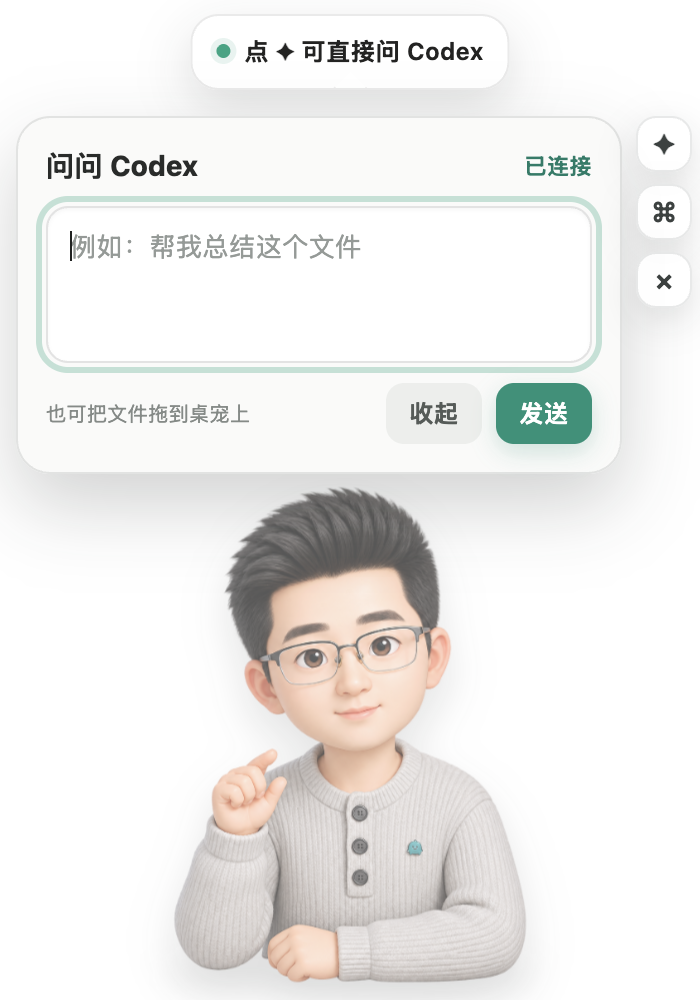
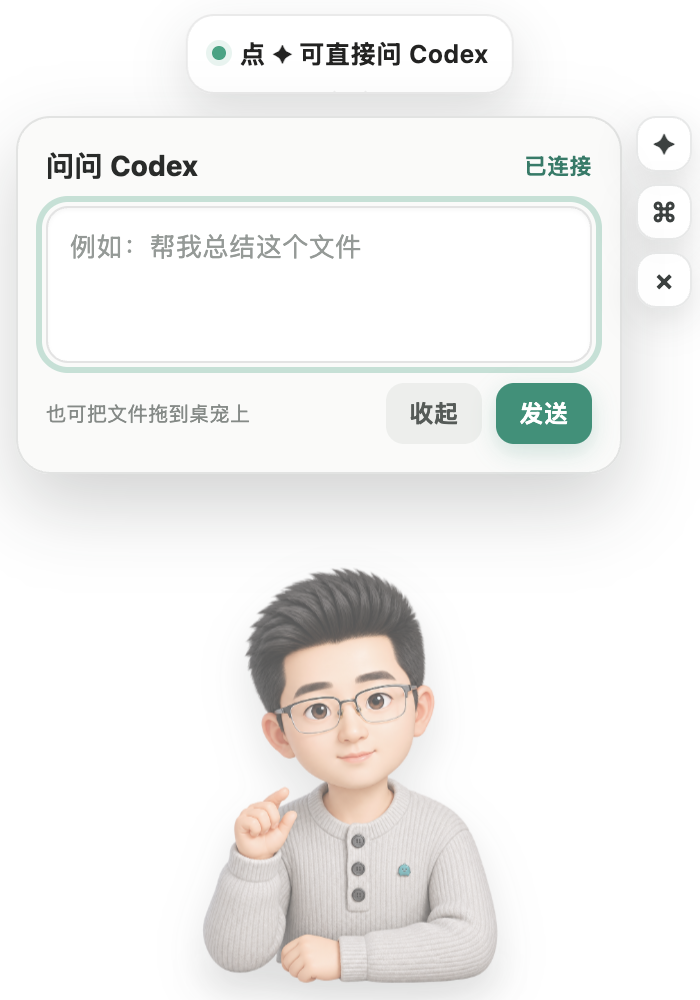
refine: shrink pet and enlarge replies

Changed region(s): [[0.24, 0.465, 0.75, 0.992], [0.3, 0.031, 0.69, 0.093]]

diff --git a/src/styles.css b/src/styles.css
@@ -39,13 +39,14 @@ textarea {
   display: flex;
   align-items: flex-start;
   gap: 7px;
-  max-width: 260px;
+  max-width: 272px;
   min-height: 38px;
-  max-height: 76px;
-  padding: 9px 12px;
-  overflow: hidden;
+  max-height: 112px;
+  padding: 10px 12px;
+  overflow-x: hidden;
+  overflow-y: auto;
   color: #232322;
-  font-size: 12px;
+  font-size: 12.5px;
   font-weight: 650;
   line-height: 1.42;
   letter-spacing: 0.01em;
@@ -325,8 +326,8 @@ textarea {
   z-index: 2;
   left: 50%;
   bottom: 1px;
-  width: 274px;
-  height: 316px;
+  width: 230px;
+  height: 266px;
   cursor: grab;
   pointer-events: auto;
   transform: translateX(-50%);
@@ -345,7 +346,7 @@ textarea {
   left: 50%;
   bottom: 4px;
   display: block;
-  width: 270px;
+  width: 226px;
   height: auto;
   -webkit-user-drag: none;
   filter: drop-shadow(0 11px 11px rgba(30, 32, 31, 0.19));
@@ -389,13 +390,13 @@ textarea {
 }
 
 .spark-one {
-  top: 56px;
-  right: 9px;
+  top: 46px;
+  right: 7px;
   font-size: 20px;
 }
 
 .spark-two {
-  top: 86px;
+  top: 72px;
   right: 2px;
   font-size: 25px;
 }

diff --git a/src/renderer.js b/src/renderer.js
@@ -96,7 +96,7 @@ function handleStatus(status = {}) {
     showBubble('Codex 正在思考…', 0);
   } else if (state === 'completed') {
     setBusy(false);
-    showBubble(status.answer || status.message || 'Codex 已完成', 9000);
+    showBubble(status.answer || status.message || 'Codex 已完成', 12000);
   } else if (state === 'error' || state === 'fallback' || state === 'offline') {
     setBusy(false);
     showBubble(status.message || '暂时无法连接 Codex', 5000);

diff --git a/src/main.js b/src/main.js
@@ -6,7 +6,7 @@ const fs = require('node:fs');
 const path = require('node:path');
 const { CodexBridge } = require('./codex-bridge');
 
-const WINDOW_SIZE = { width: 284, height: 382 };
+const WINDOW_SIZE = { width: 284, height: 344 };
 const EXPANDED_SIZE = { width: 350, height: 500 };
 const STATE_FILENAME = 'window-state.json';
 

diff --git a/RELEASE_NOTES.md b/RELEASE_NOTES.md
@@ -1,19 +1,18 @@
-# Codex Desk Pet v1.1.0
+# Codex Desk Pet v1.1.1
 
-这次桌宠不只是 Codex 快捷方式了。
+这次继续优化桌面占用和回复阅读体验。
 
-## 新功能
+## 更小的桌宠
 
-- 点击 `✦`，无需离开桌面即可直接向 Codex 提问
-- 接入 Codex App Server，显示真实的连接、处理中和完成状态
-- 支持把图片、文档和文件夹拖到桌宠上，交给 Codex 只读分析
-- Codex 完成任务后发送 macOS 系统通知
-- 未安装或未登录 Codex 时，自动复制问题并打开 Codex/网页版
+- 常驻窗口由 `284×382` 缩短为 `284×344`
+- 角色本体由约 270 像素宽缩小到约 226 像素宽
+- 提问卡仍然只在需要时临时展开，发送后自动缩回
 
-## 更轻巧
+## 更大的回复气泡
 
-- 常驻窗口由 `368×492` 缩小为 `284×382`，占屏面积减少约 40%
-- 提问卡只在需要时临时展开，发送后自动缩回
+- 回复气泡最大宽度由 260 像素增加到 272 像素
+- 最大高度由 76 像素增加到 112 像素，可显示更多回答内容
+- 长回答可以在气泡内滚动，完成回复的停留时间由 9 秒延长到 12 秒
 
 ## 安全说明
 

diff --git a/README.md b/README.md
@@ -7,7 +7,8 @@
 ## 功能
 
 - 透明悬浮、始终置顶，可拖到任意位置
-- 紧凑模式约 `284×382`，提问时临时展开，发送后自动收起
+- 紧凑模式约 `284×344`，角色本体约 226 像素宽；提问时临时展开，发送后自动收起
+- 回复气泡加宽、加高，长回答可滚动查看并停留更久
 - 待机呼吸和点击反馈动画
 - 点击 `✦` 直接提问，显示真实的连接、处理和完成状态
 - 支持把图片、文档或文件夹拖到桌宠上交给 Codex 阅读
@@ -66,8 +67,8 @@ npm run dist:mac
 仓库已包含 `.github/workflows/release.yml`。推送版本标签后，GitHub Actions 会自动构建四个 macOS 文件并创建 Release：
 
 ```bash
-git tag v1.1.0
-git push origin v1.1.0
+git tag v1.1.1
+git push origin v1.1.1
 ```
 
 代码使用 MIT License。角色图片的授权范围不同，详见 [ASSET_LICENSE.md](ASSET_LICENSE.md)。
